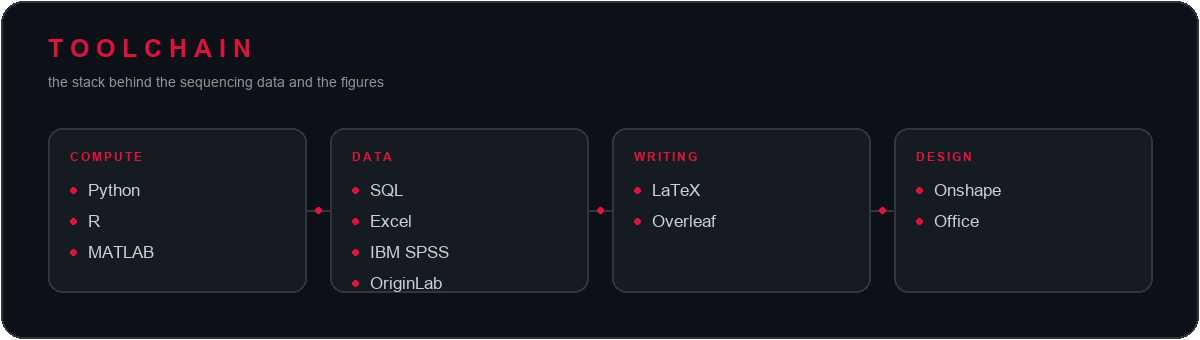
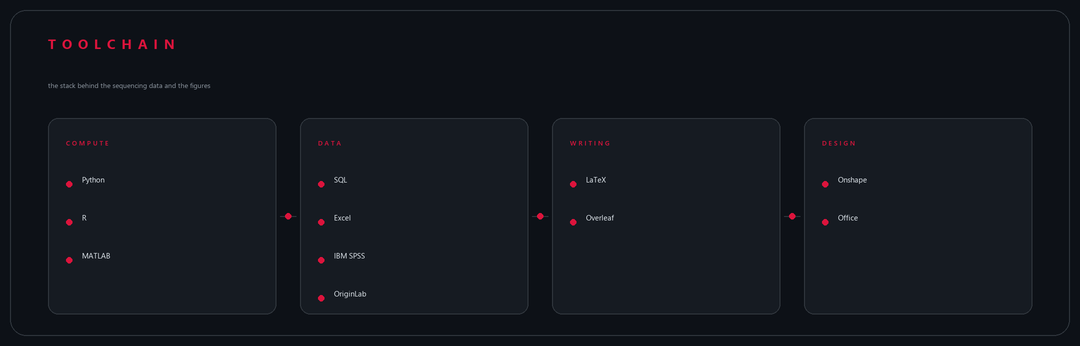
Restore the escaped LaTeX openings and give the toolchain DATA card room for OriginLab. (#3)

diff --git a/README.md b/README.md
@@ -55,7 +55,7 @@ python automation/update_readme.py   # rewrites the table above + the current-wo
 ## `\section{Publications}`
 
 ```latex
-egin{table}[h]
+\begin{table}[h]
 \centering
 \caption{Publications}
 ```
@@ -76,7 +76,7 @@ python automation/update_readme.py   # rewrites the table above + the current-wo
 ## `\section{Toolchain}`
 
 ```latex
-egin{figure}[h]
+\begin{figure}[h]
 \centering
 \includegraphics[width=0.9\linewidth]{"tool chain.png"}
 \caption{Toolchain}
